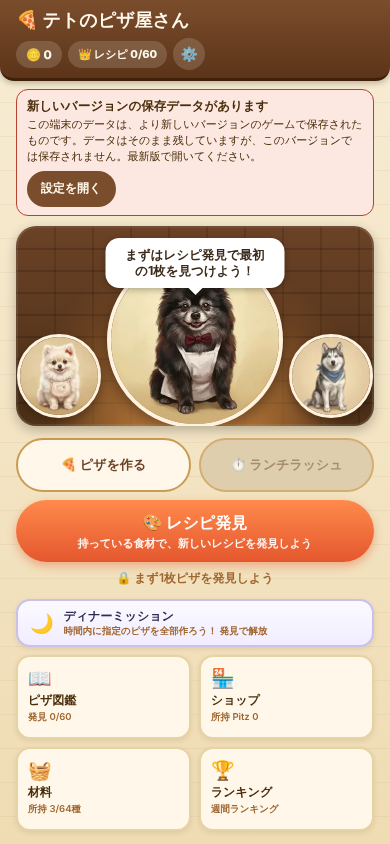
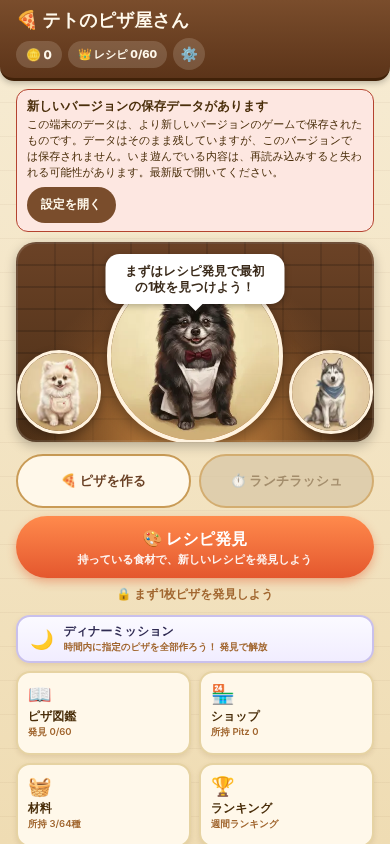
fix(save): PR-2 の通知文言 2 点を明確化 — 未知の将来版は再読み込みで失われる可能性、破損はバックアップであり復元ではない（#560、文言のみ）
- 未知の将来版: 「いま遊んでいる内容は、再読み込みすると失われる可能性があります」を追加
- 破損（退避済み／未退避／退避情報の通知）: 「これはバックアップで、復元ではありません。以前の進行は復元されていません」を明示
- 分類・保存・Reset・レイアウトのロジックは変更なし。文言の意味を saveNoticeCopy.test.ts で固定し、App レベルの検証を追加
- after-01 / after-07 のスクリーンショットを撮り直し、結果レポートに追記

Claude-Session: https://claude.ai/code/session_0127s1UVXi3pT5HMAJQHcgrm

diff --git a/src/state/saveNoticeCopy.test.ts b/src/state/saveNoticeCopy.test.ts
@@ -1,0 +1,103 @@
+import { describe, expect, it } from "vitest";
+import { describeSaveNotice } from "./saveNoticeCopy";
+import type { SaveNotice } from "./saveHealth";
+
+/**
+ * Save Protection PR-2 (#560), Owner wording decision: the notices say exactly what is and is not true.
+ * - a newer build's save: this build does not save, and what is played now can be lost on a reload;
+ * - a damaged save: what was kept is a BACKUP, not a restore, and the earlier progress was NOT restored.
+ * These pin the meaning (not every character), so a later wording pass cannot silently drop it.
+ */
+
+const ALL: SaveNotice[] = [
+  { kind: "future-version", schemaVersion: 3 },
+  { kind: "corrupt", backedUp: true },
+  { kind: "corrupt", backedUp: false },
+  { kind: "backup-failed", reason: "quarantine-failed" },
+  { kind: "backup-failed", reason: "quarantine-too-large" },
+  { kind: "storage-unavailable" },
+  { kind: "backup-kept", entryKind: "corrupt" },
+  { kind: "backup-kept", entryKind: "unknown-schema" },
+];
+
+const text = (n: SaveNotice) => {
+  const copy = describeSaveNotice(n);
+  return `${copy.title}\n${copy.body}`;
+};
+
+describe("future version (a newer build's save)", () => {
+  const body = describeSaveNotice({ kind: "future-version", schemaVersion: 3 }).body;
+
+  it("says the data is kept, and that this version does not save", () => {
+    expect(body).toMatch(/そのまま残/);
+    expect(body).toMatch(/このバージョンでは保存されません/);
+  });
+
+  it("says what is played now can be lost on a reload", () => {
+    expect(body).toMatch(/いま遊んでいる内容/);
+    expect(body).toMatch(/再読み込み/);
+    expect(body).toMatch(/失われる可能性/);
+  });
+});
+
+describe("damaged save", () => {
+  const variants = [
+    ["already backed up", describeSaveNotice({ kind: "corrupt", backedUp: true }).body],
+    ["not backed up yet", describeSaveNotice({ kind: "corrupt", backedUp: false }).body],
+    ["backup kept (info)", describeSaveNotice({ kind: "backup-kept", entryKind: "corrupt" }).body],
+  ] as const;
+
+  for (const [name, body] of variants) {
+    it(`${name}: the backup is not a restore, and the earlier progress was not restored`, () => {
+      expect(body).toMatch(/バックアップ/);
+      expect(body).toMatch(/復元ではありません|復元されて/);
+      expect(body).toMatch(/以前の進行は復元されて/);
+    });
+  }
+
+  it("says a fresh start is what the player is playing", () => {
+    expect(describeSaveNotice({ kind: "corrupt", backedUp: true }).body).toMatch(/新しいデータで始めています/);
+    expect(describeSaveNotice({ kind: "corrupt", backedUp: false }).body).toMatch(/新しいデータで始めています/);
+  });
+
+  it("still says the damaged text is kept, not deleted", () => {
+    expect(describeSaveNotice({ kind: "corrupt", backedUp: true }).body).toMatch(/退避してあります/);
+    expect(describeSaveNotice({ kind: "corrupt", backedUp: false }).body).toMatch(/消さずに/);
+  });
+});
+
+describe("notices that mean nothing is being saved", () => {
+  it("backup failed (either reason) and unreadable storage say the session is not saved", () => {
+    for (const notice of [
+      { kind: "backup-failed", reason: "quarantine-failed" },
+      { kind: "backup-failed", reason: "quarantine-too-large" },
+      { kind: "storage-unavailable" },
+    ] as SaveNotice[]) {
+      expect(describeSaveNotice(notice).body).toMatch(/保存されません/);
+    }
+  });
+});
+
+describe("a newer build's save that a Reset moved into the backup", () => {
+  it("says what it is, and does not make the damaged-save statement", () => {
+    const body = describeSaveNotice({ kind: "backup-kept", entryKind: "unknown-schema" }).body;
+    expect(body).toMatch(/新しいバージョン/);
+    expect(body).not.toMatch(/復元/);
+  });
+});
+
+describe("every notice", () => {
+  it("has a title and a body", () => {
+    for (const notice of ALL) {
+      const copy = describeSaveNotice(notice);
+      expect(copy.title.length, notice.kind).toBeGreaterThan(0);
+      expect(copy.body.length, notice.kind).toBeGreaterThan(0);
+    }
+  });
+
+  it("never claims anything was restored or recovered", () => {
+    for (const notice of ALL) {
+      expect(text(notice), notice.kind).not.toMatch(/復元しました|復元されました|復旧しました|元に戻しました|取り戻しました/);
+    }
+  });
+});

diff --git a/src/state/saveNoticeCopy.ts b/src/state/saveNoticeCopy.ts
@@ -11,14 +11,14 @@ export function describeSaveNotice(notice: SaveNotice): SaveNoticeCopy {
     case "future-version":
       return {
         title: "新しいバージョンの保存データがあります",
-        body: "この端末のデータは、より新しいバージョンのゲームで保存されたものです。データはそのまま残していますが、このバージョンでは保存されません。最新版で開いてください。",
+        body: "この端末のデータは、より新しいバージョンのゲームで保存されたものです。データはそのまま残していますが、このバージョンでは保存されません。いま遊んでいる内容は、再読み込みすると失われる可能性があります。最新版で開いてください。",
       };
     case "corrupt":
       return {
         title: "保存データを読み込めませんでした",
         body: notice.backedUp
-          ? "壊れたデータは端末内に退避してあります。新しいデータで始めています。"
-          : "新しいデータで始めています。次に保存するとき、壊れたデータは消さずに端末内へ退避します。",
+          ? "壊れたデータは端末内に退避してあります。これはバックアップで、復元ではありません。以前の進行は復元されておらず、新しいデータで始めています。"
+          : "新しいデータで始めています。以前の進行は復元されていません。次に保存するとき、壊れたデータは消さずに、バックアップとして端末内へ退避します（復元ではありません）。",
       };
     case "backup-failed":
       return {
@@ -39,7 +39,7 @@ export function describeSaveNotice(notice: SaveNotice): SaveNoticeCopy {
         body:
           notice.entryKind === "unknown-schema"
             ? "新しいバージョンで保存されたデータを、リセットの前に端末内へ退避しました。"
-            : "読み込めなかった保存データを、消さずに端末内へ退避しました。",
+            : "読み込めなかった保存データを、消さずに端末内へ退避しました。これはバックアップで、復元ではありません。以前の進行は復元されていません。",
       };
   }
 }

diff --git a/src/App.saveProtectionUi.test.tsx b/src/App.saveProtectionUi.test.tsx
@@ -60,6 +60,9 @@ describe("HOME save notice", () => {
     const alert = screen.getByRole("alert");
     expect(alert).toHaveAttribute("data-save-notice", "future-version");
     expect(alert).toHaveTextContent("新しいバージョンの保存データがあります");
+    // Owner wording decision: not saved here, and what is played now can be lost on a reload.
+    expect(alert).toHaveTextContent("このバージョンでは保存されません");
+    expect(alert).toHaveTextContent("再読み込みすると失われる可能性があります");
     expect(within(alert).queryByRole("button", { name: "了解" })).toBeNull();
     expect(window.localStorage.getItem(SAVE_STORAGE_KEY)).toBe(FUTURE);
   });
@@ -70,6 +73,9 @@ describe("HOME save notice", () => {
     const alert = screen.getByRole("alert");
     expect(alert).toHaveAttribute("data-save-notice", "corrupt");
     expect(alert).toHaveTextContent("保存データを読み込めませんでした");
+    // Owner wording decision: a backup is not a restore; the earlier progress was not restored.
+    expect(alert).toHaveTextContent("以前の進行は復元されていません");
+    expect(alert).toHaveTextContent("復元ではありません");
     expect(window.localStorage.getItem(SAVE_STORAGE_KEY)).toBe(BROKEN);
   });
 

diff --git a/docs/reports/TETO_SAVE-PROTECTION_560_PR2_Result.md b/docs/reports/TETO_SAVE-PROTECTION_560_PR2_Result.md
@@ -5,13 +5,15 @@ Base: `main` @ `c99bd8d` (PR-1 #567 merged; main CI / Deploy / WebKit E2E green 
 ## What the player sees
 | Situation (kept apart) | Where it comes from | HOME notice | Dismissible |
 |---|---|---|---|
-| **Future version** (`schemaVersion` > 2) | stored text classified `unknown-schema` | 「新しいバージョンの保存データがあります」— data untouched, not saved by this build | no |
-| **Corrupt** (unreadable text) | stored text classified `corrupt` | 「保存データを読み込めませんでした」— fresh start; copy kept (already / at next save) | no |
+| **Future version** (`schemaVersion` > 2) | stored text classified `unknown-schema` | 「新しいバージョンの保存データがあります」— data untouched, not saved by this build, **what is played now can be lost on a reload** | no |
+| **Corrupt** (unreadable text) | stored text classified `corrupt` | 「保存データを読み込めませんでした」— fresh start; copy kept (already / at next save) as a **backup, not a restore: the earlier progress was NOT restored** | no |
 | **Backup failed** (could not copy / too large) | last write refused `quarantine-failed` / `quarantine-too-large` | 「壊れた保存データを退避できませんでした」— overwrite stopped, session not saved | no |
 | **Storage unavailable** | last write refused `storage-error`, or the save key cannot be read | 「保存先にアクセスできません」— session not saved | no |
 | **Backup kept** (info) | an unacknowledged quarantine entry exists | 「以前の保存データを退避してあります」 | 「了解」 (marks seen; never deletes) |
 
 Blocking notices are `role="alert"`; the info notice is `role="status"`. 「設定を開く」 opens Settings.
+
+**Wording decision (Owner, 2026-10-19), copy only.** `src/state/saveNoticeCopy.ts`: the future-version body now adds 「いま遊んでいる内容は、再読み込みすると失われる可能性があります」; the corrupt bodies (already backed up / not yet) and the corrupt "backup kept" info notice now say the copy is a backup, not a restore, and that the earlier progress was not restored (「これはバックアップで、復元ではありません。以前の進行は復元されていません」). No classification, storage, Reset or layout logic changed. Pinned by `src/state/saveNoticeCopy.test.ts` (meaning, not characters) and two new assertions in `App.saveProtectionUi.test.tsx`; `after-01-home-future-version-*` and `after-07-home-corrupt-*` screenshots were re-taken.
 
 ## Reset / backup deletion
 - Full Game Reset dialog: the lead text follows the situation (future version / corrupt: "削除されず端末内に退避され、はじめからやり直します"); when a backup exists it adds 「退避データは、リセットしても削除されません」. A refused reset shows the reason (quarantine failed / too large / storage unreadable); the save is untouched.
